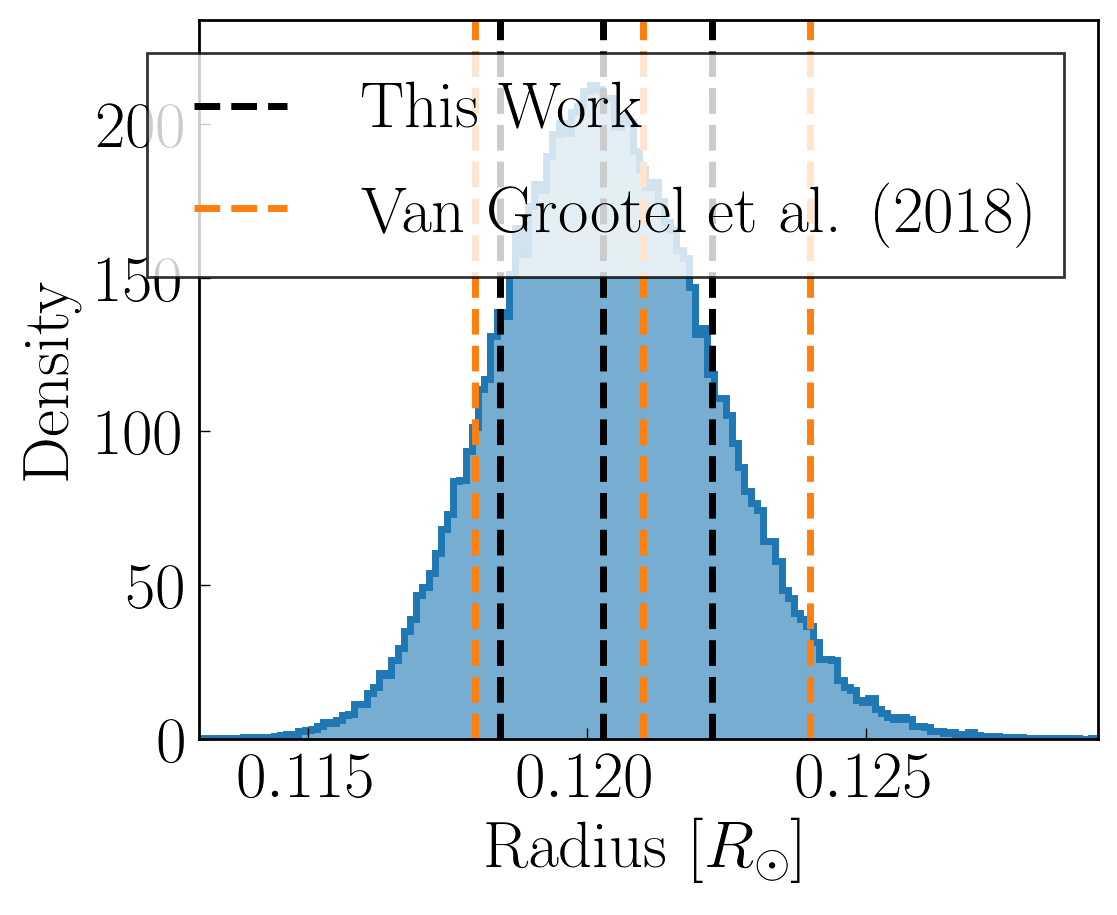
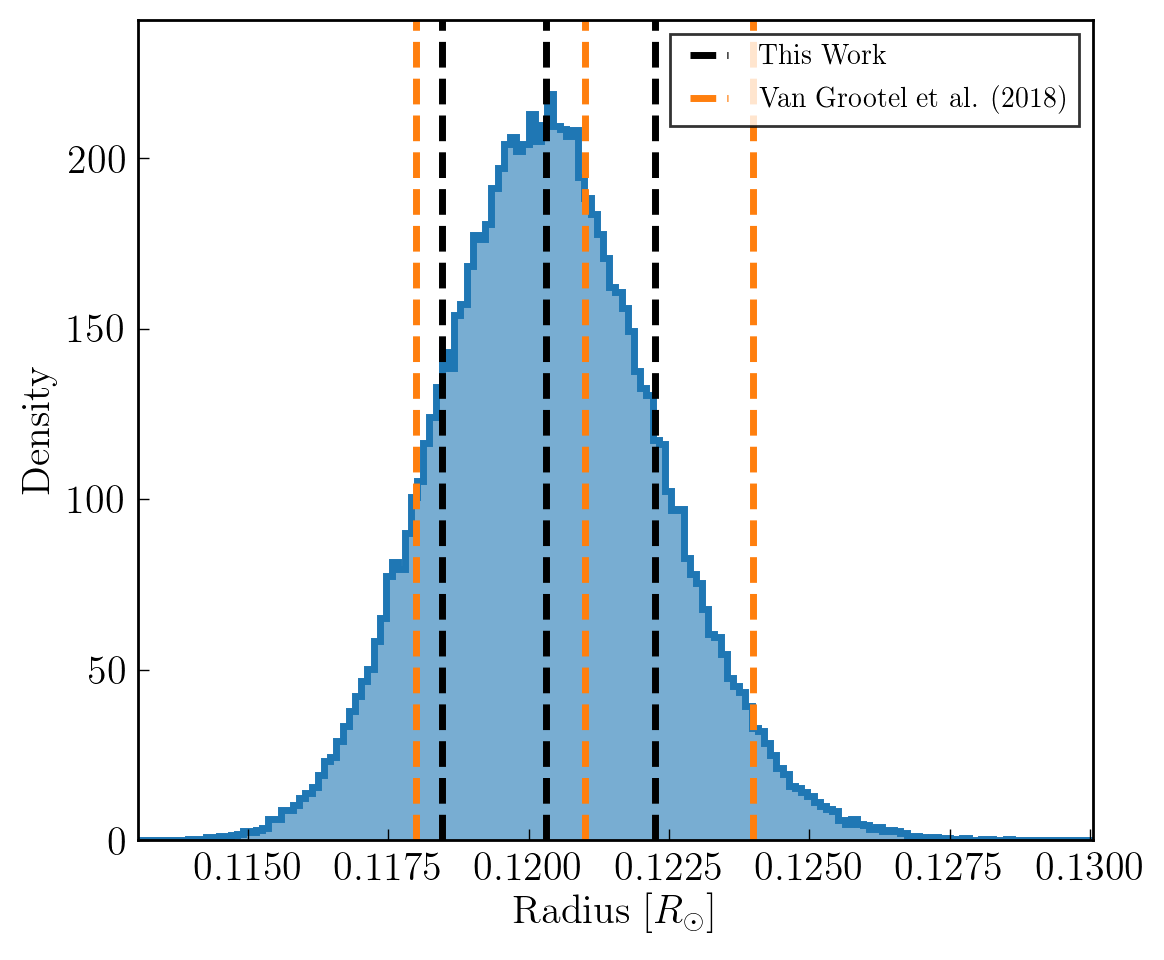
fixes legend on stellar radius figure

Changed region(s): [[0.0, 0.0, 1.0, 0.9792], [0.1522, 0.2142, 0.2739, 0.2448]]

diff --git a/Analysis/EstimateTRAPPIST1Radius/estRad.py b/Analysis/EstimateTRAPPIST1Radius/estRad.py
@@ -22,7 +22,7 @@ import matplotlib as mpl
 import matplotlib.pyplot as plt
 
 #Typical plot parameters that make for pretty plots
-mpl.rcParams['font.size'] = 20.0
+mpl.rcParams['font.size'] = 12.0
 
 ## for Palatino and other serif fonts use:
 mpl.rc('font',**{'family':'serif'})
@@ -76,7 +76,7 @@ ax.axvline(0.121 - 0.003, color="C1", ls="--", lw=2.5)
 
 ax.set_ylabel("Density")
 ax.set_xlabel(r"Radius [$R_{\odot}]$")
-ax.legend(loc="best", framealpha=0.8)
+ax.legend(loc="best", framealpha=0.8, fontsize=10)
 fig.tight_layout()
 
 # Save!
